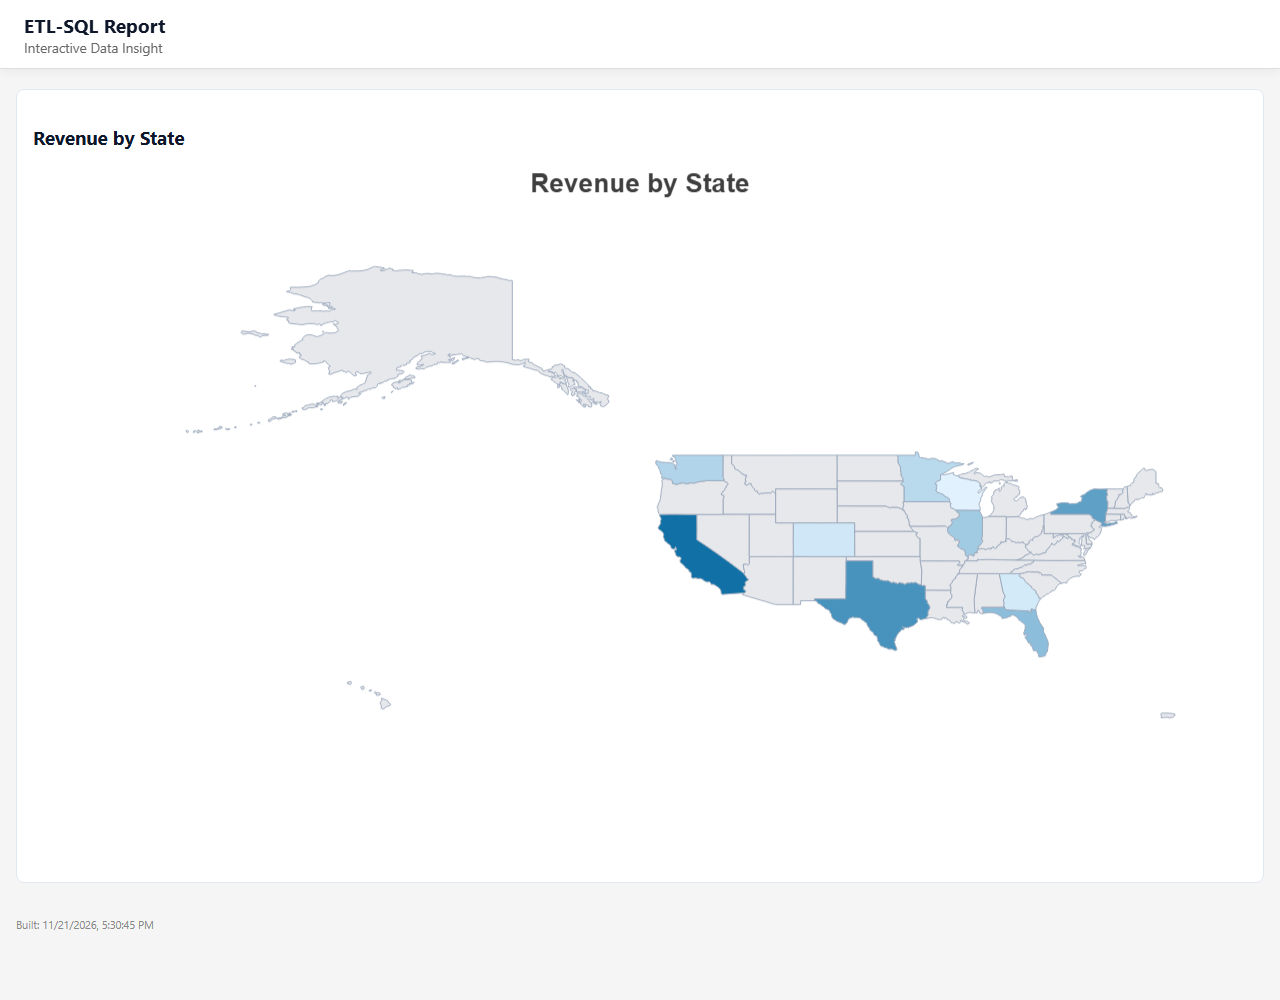
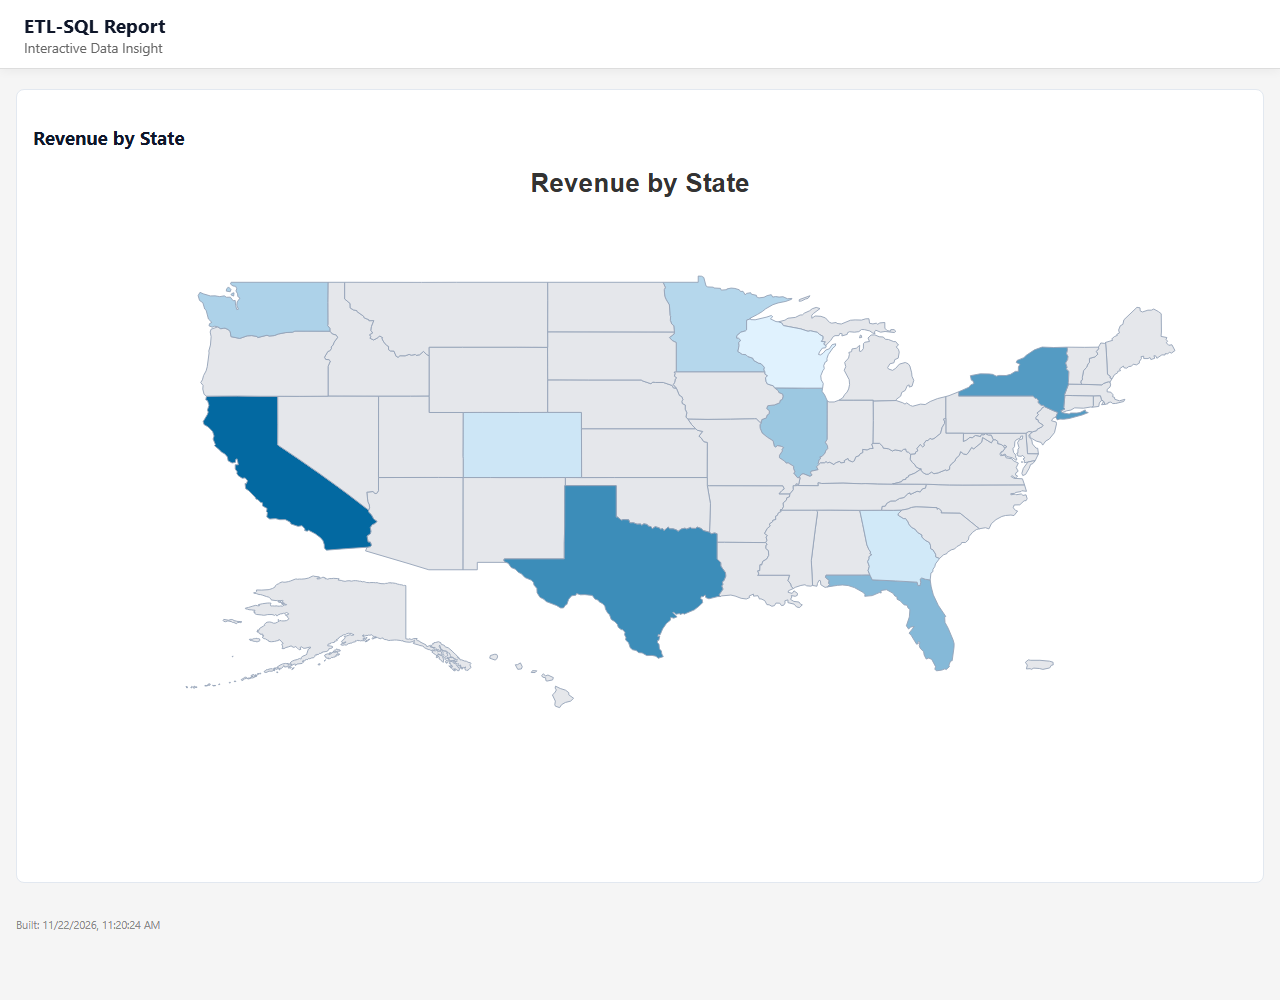
Docs: US map insets in the MAP reference, README map image, TODO DOC09 done
Claude-Session: https://claude.ai/code/session_01GLm6xGfL8xFAdYuHc3qLwD

diff --git a/TODO.md b/TODO.md
@@ -187,10 +187,11 @@ fuzzy matching recipes run on MOCKDB; multi-context-join and SCD Type 2 bugs fix
   `[Slicer — interactive in ReportPlayer only]` (jsdom tests in `reportRuntime.test.ts`). The
   VS Code README's restart-after-install note is a callout again (the 60-second rewrite had folded
   it into step 1). The combo chart and KPI dashboard can now join the README gallery. S
-- [ ] **DOC09 Alaska and Hawaii insets on US maps.** `US_STATES` maps draw Alaska and Hawaii at
-  their true positions, so Alaska takes much of the card. Draw them as insets below the lower 48,
-  as US maps usually do, without moving `MODE = POINTS` markers for those states off their shapes.
-  M
+- [x] **DOC09 Alaska and Hawaii insets on US maps.** Done 2026-11-22: fitted `US_STATES` maps
+  (no `ZOOM`/`CENTER`) draw Alaska (35% scale) and Hawaii below the lower 48 and Puerto Rico
+  beside Florida, in both native renderers; markers move with their states (`UsStatesInsets`,
+  `UsStatesInsetsTests`, `Map_UsStates_DrawsAlaskaAndHawaiiAsInsets` in both renderer test classes,
+  `Map_UsStatesPoints_AnchorageMarkerLandsOnAlaskaInset`). README map image refreshed. M
 - [ ] **DOC10 Manual check of the VS Code Get Started walkthrough (owner).** Run
   `etlsql.getStarted` on a fresh VS Code install from the Marketplace build and confirm each step
   (open sample, run, preview dashboard, cookbooks). S

diff --git a/docs/reference/visuals-reporting/visuals/map.md b/docs/reference/visuals-reporting/visuals/map.md
@@ -53,7 +53,7 @@ Options (CHOROPLETH only):
 
 Built-in map keys (MAP_NAME):
 - **WORLD** — 177 countries (Natural Earth 110m)
-- **US_STATES** — 50 states + DC
+- **US_STATES** — 50 states + DC. A fitted map draws Alaska and Hawaii as insets below the lower 48 and Puerto Rico beside Florida; setting `ZOOM` or `CENTER` shows them at their real positions.
 - **US_COUNTIES** — 3,221 US counties (Census 20m simplified)
 - **MN_COUNTIES** — 87 Minnesota counties
 - **CANADA_PROVINCES** — 13 provinces and territories
